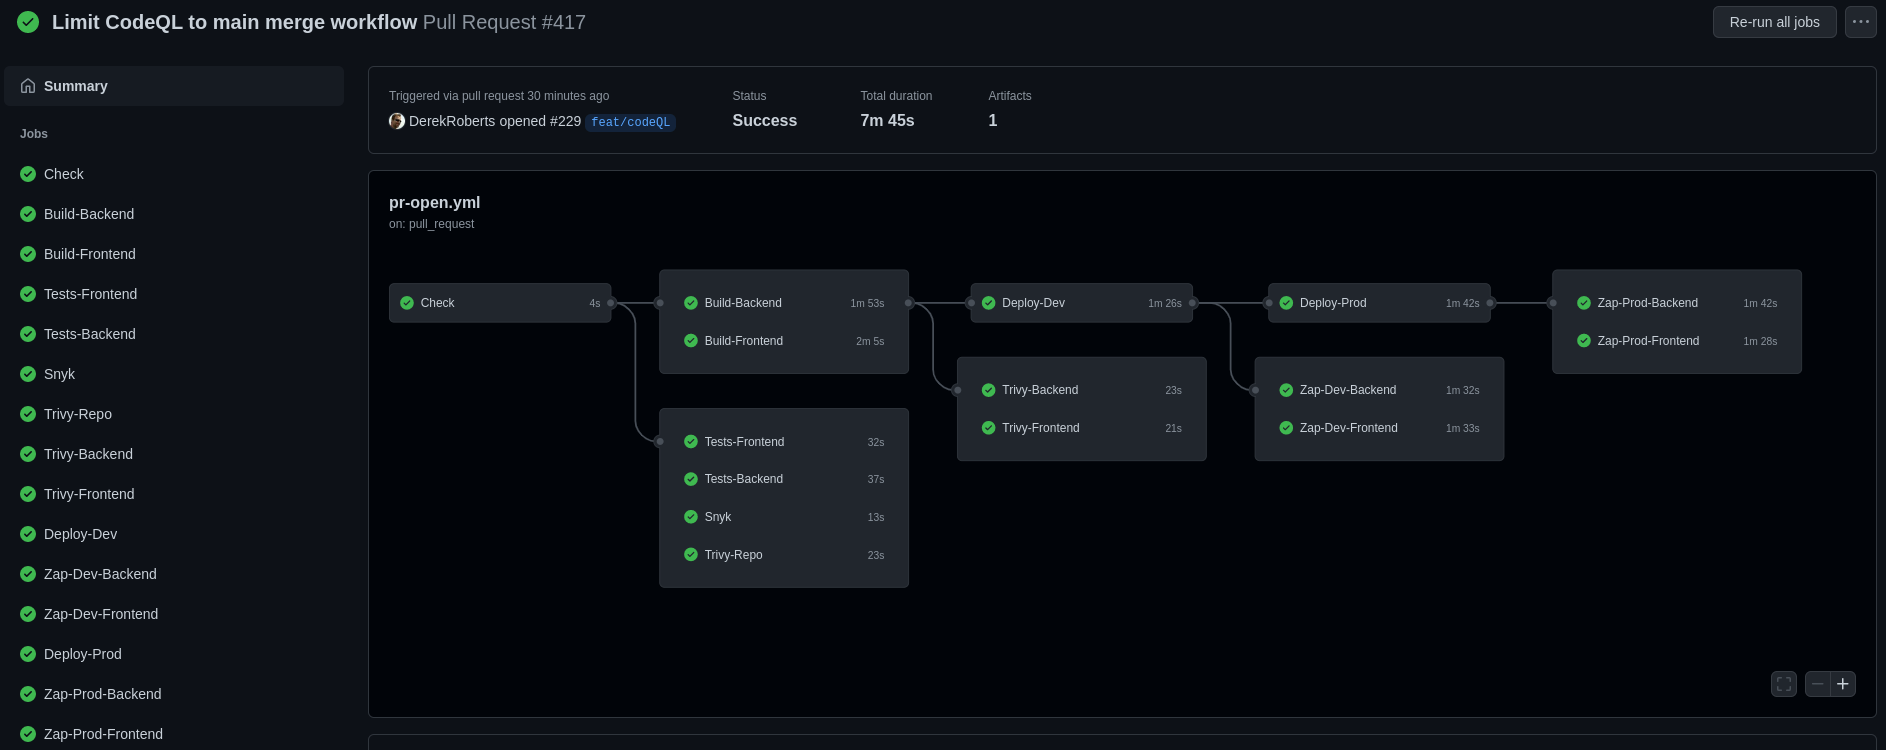
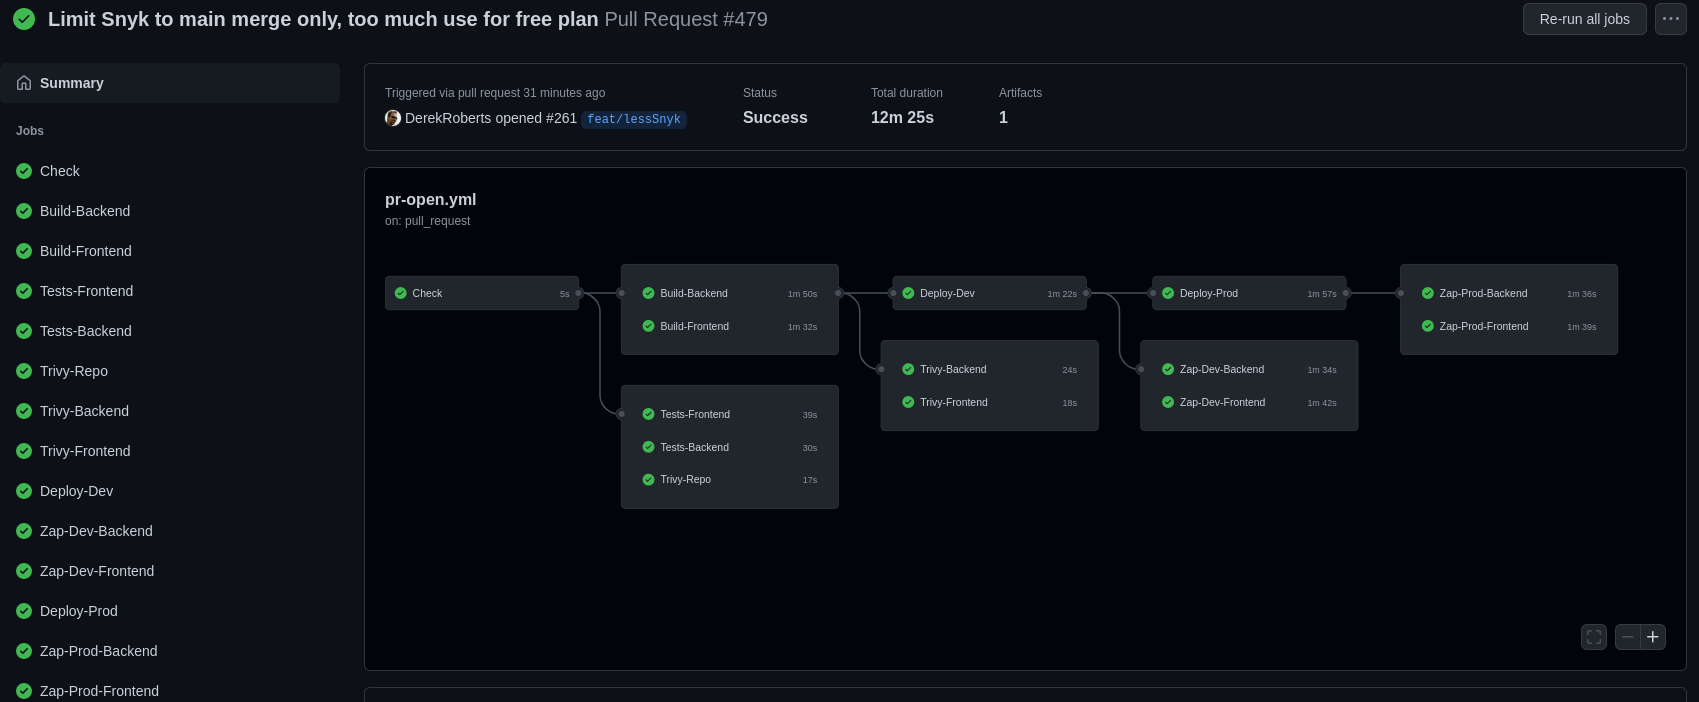
Readme pipeline check updates - text, graphics (#266)

diff --git a/README.md b/README.md
@@ -41,7 +41,6 @@ The workflow, located [here](https://github.com/bcgov/greenfield-template/blob/m
 * [Jest](https://jestjs.io/) JavaScript testing enforced in-pipeline
 * Code test coverage reporting (coming soon!)
 * [ESLint](https://eslint.org/) linting (coming soon!)
-* [Snyk](https://snyk.io/) vulnerability scanning for containers, infrastructure and dependencies
 * [Tryvy](https://aquasecurity.github.io/trivy) image/infrastructure vulnerability/config scanning
 * [OWASP ZAP](https://www.zaproxy.org/) Zed Attack Proxy live application scanning
 
@@ -63,8 +62,9 @@ The workflow, located [here](https://github.com/bcgov/greenfield-template/blob/m
 
 The workflow, located [here](https://github.com/bcgov/greenfield-template/blob/main/.github/workflows/main.yml), includes:
 
-* [SonarCloud](https://sonarcloud.io/) continuous code quality and security scanning
 * [GitHub CodeQL](https://codeql.github.com/) semantic code analysis and vulerability scanning
+* [SonarCloud](https://sonarcloud.io/) continuous code quality and security scanning
+* [Snyk](https://snyk.io/) vulnerability scanning for containers, infrastructure and dependencies
 
 ![Main Merge](.github/graphics/main-merge.png)
 
@@ -213,7 +213,7 @@ Provide these tokens or comment their jobs out:
 
 * Code quality and security scanning
 * Request to [import a GitHub repository](https://github.com/BCDevOps/devops-requests/issues/new/choose)
-* Variable: `{{ secrets.SNYK_TOKEN }}`
+* Variable: `{{ secrets.SONAR_TOKEN }}`
 
 
 ## Environment Secrets
@@ -232,12 +232,24 @@ Create a new Environment to hold the keys to our development deployment.
 
 Environment name: `dev`
 
-No  protection rules are required yet:
+No protection rules are required yet:
 
  * [`unchecked`] Required reviewers
  * [`unchecked`] Wait timer
  * Deployment branches: `All branches`
 
+**Environment: prod**
+
+Create a new Environment to hold the keys to our development deployment.
+
+Environment name: `prod`
+
+Protection rules are required:
+
+ * [`check`] Required reviewers
+   * Provide GitHub IDs as appropriate
+ * [`unchecked`] Wait timer
+ * Deployment branches: `All branches`
 
 ### Required
 
@@ -365,13 +377,20 @@ From GitHub:
     * `[check] Require status checks to pass before merging`
         * `[check] Require branches to be up to date before merging`
         * `Status checks that are required` requires to the search box to select:
-            * `Build`
             * `Check`
-            * `CodeQL`
-            * `Deploy`
-            * `Tests`
-            * `Zap`
-            * `Snyk` (optional)
+            * `Tests-Backend`
+            * `Tests-Frontend`
+            * `Build-Backend`
+            * `Build-Frontend`
+            * `Deploy-Dev`
+            * `Deploy-Prod`
+            * `Trivy-Repo`
+            * `Trivy-Backend`
+            * `Trivy-Frontend`
+            * `Zap-Dev-Backend`
+            * `Zap-Dev-Frontend`
+            * `Zap-Prod-Backend`
+            * `Zap-Prod-Frontend`
             * `SonarCloud` (optional)
     * `[check] Require conversation resolution before merging`
     * `[check] Include administrators` (optional)
@@ -410,6 +429,6 @@ From GitHub:
 This repo provides a basic template to start up a new project using nodejs. It needs to be customized based on the project, for example, run tests for a different language and revised whatever secrets required.
 
 ## Example APIs
+
 This repo has good example APIs in different language and frameworks which serve as a starting point for your project.
 https://github.com/bcgov/iit-arch
-
